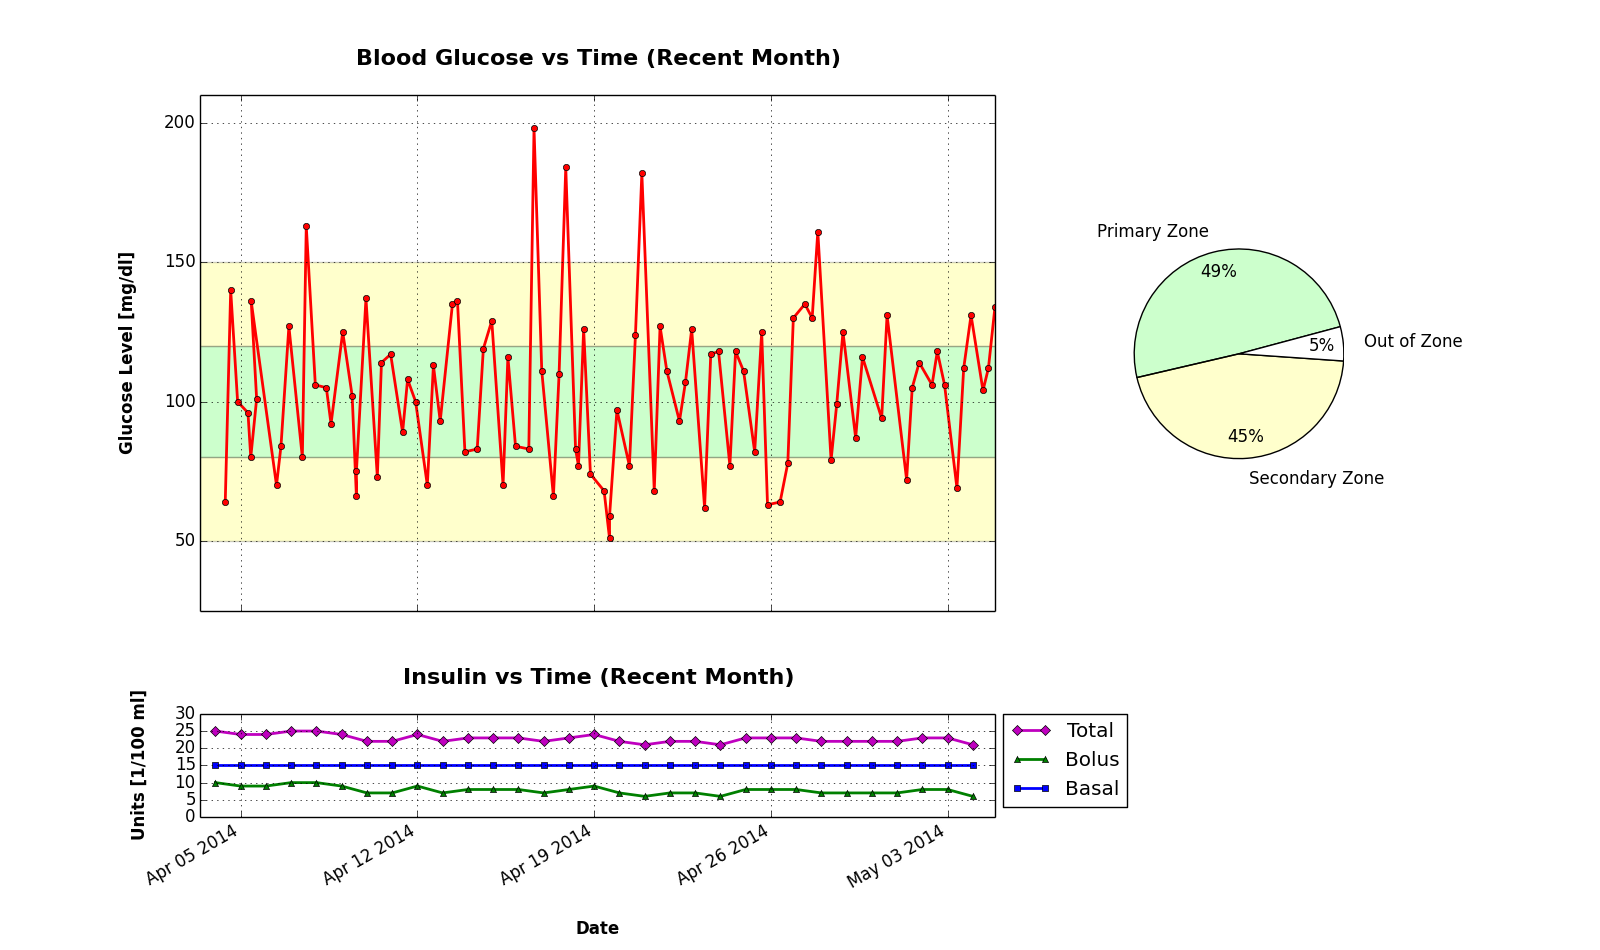
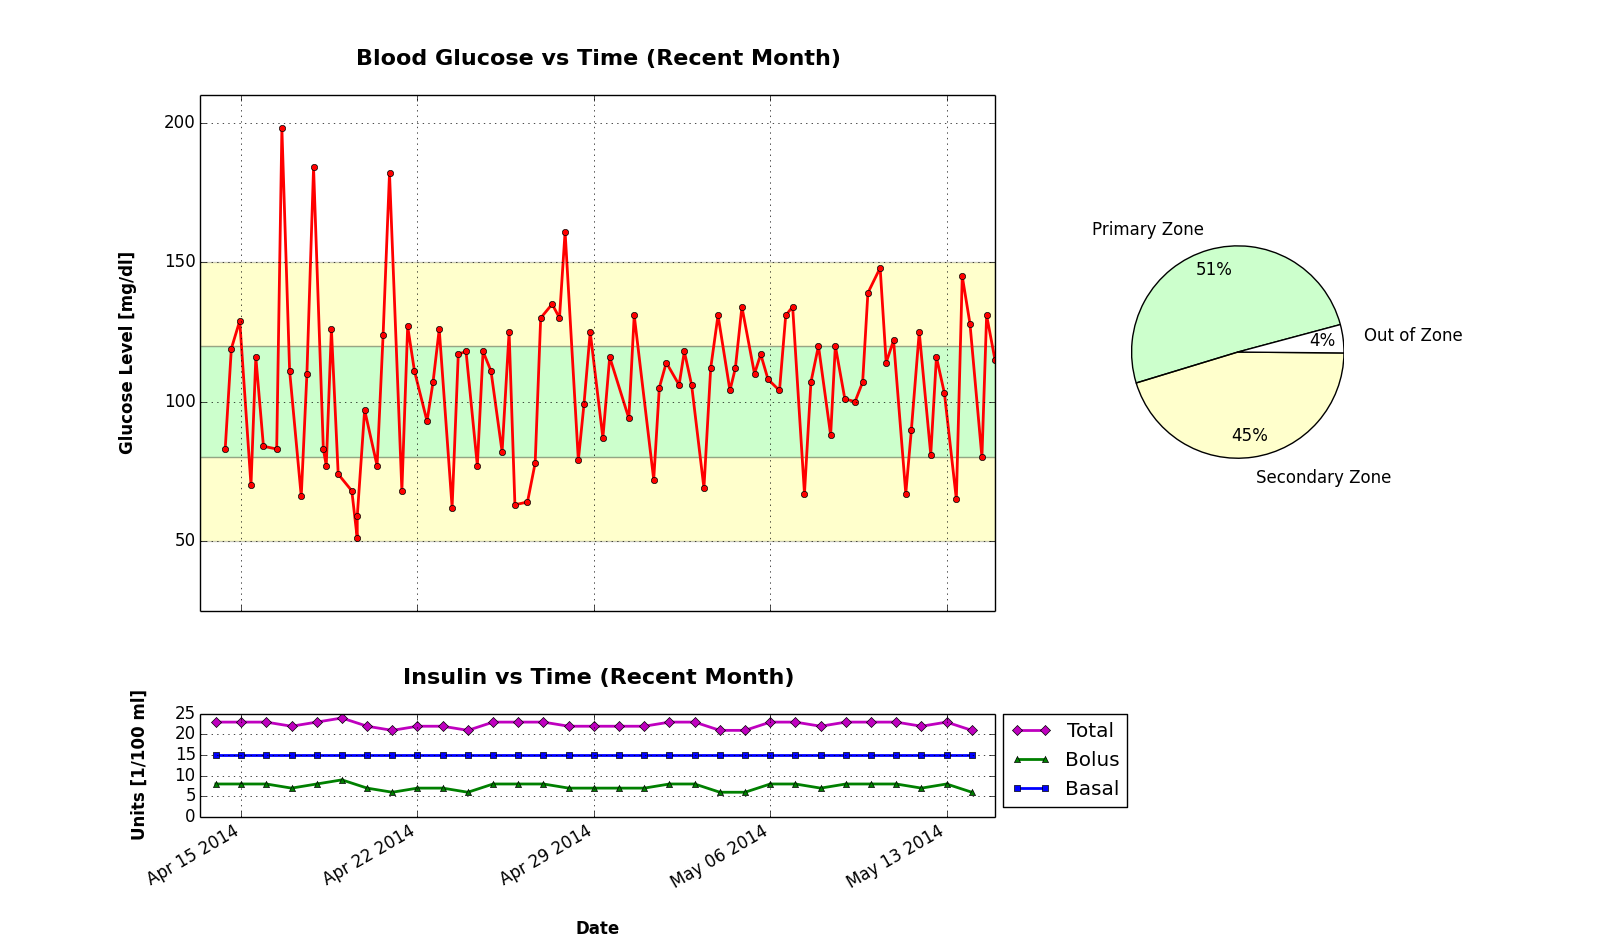
Data Update

diff --git a/d_update.py b/d_update.py
@@ -2,14 +2,14 @@
 
 
 def update():
-    date = ['2014/05/04']
-    carb = ['42', '7', '53', '14', '18', '0']
-    glucose = [['9:36', '104', '-'],
-               ['14:46', '112', '-'],
-               ['21:00', '134', '-']]
-    insulin_fast = [['6:30', '2'],
-                    ['12:00', '3'],
-                    ['18:30', '1']]
+    date = ['2014/05/14']
+    carb = ['42', '7', '36', '14', '36', '2']
+    glucose = [['9:37', '80', '-'],
+               ['14:05', '131', '-'],
+               ['22:03', '115', '-']]
+    insulin_fast = [['6:40', '2'],
+                    ['12:05', '2'],
+                    ['18:40', '2']]
     insulin_slow = [['0:00', '15']]
     weight = [['171']]
 
